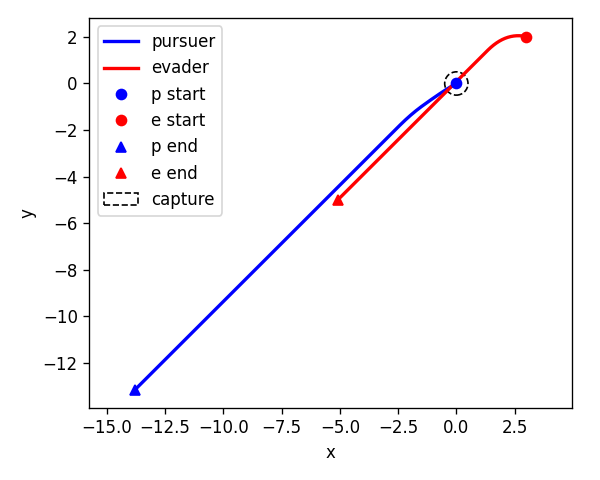
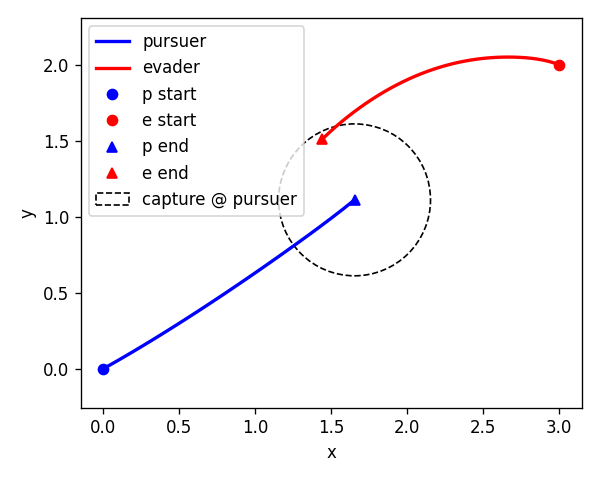
Fix pursuer control strategy and capture circle placement

diff --git a/pe_hji/plotting.py b/pe_hji/plotting.py
@@ -58,7 +58,9 @@ def plot_pursuer_evader(traj_p: np.ndarray, traj_e: np.ndarray, capture_radius: 
 	plt.plot(traj_e[0,0], traj_e[0,1], 'ro', label='e start')
 	plt.plot(traj_p[-1,0], traj_p[-1,1], 'b^', label='p end')
 	plt.plot(traj_e[-1,0], traj_e[-1,1], 'r^', label='e end')
-	circle = plt.Circle((0,0), capture_radius, color='k', fill=False, linestyle='--', linewidth=1.0, label='capture')
+	# Center capture circle at pursuer's final position
+	cx, cy = float(traj_p[-1,0]), float(traj_p[-1,1])
+	circle = plt.Circle((cx, cy), capture_radius, color='k', fill=False, linestyle='--', linewidth=1.0, label='capture @ pursuer')
 	plt.gca().add_patch(circle)
 	plt.axis('equal')
 	plt.xlabel('x')

diff --git a/pe_hji/controls.py b/pe_hji/controls.py
@@ -6,7 +6,7 @@ def optimal_controls_from_gradient(grad_vx: np.ndarray, grad_vy: np.ndarray, a_p
 	norm = np.sqrt(grad_vx * grad_vx + grad_vy * grad_vy) + 1e-12
 	dirx = grad_vx / norm
 	diry = grad_vy / norm
-	# Evader maximizes, pursuer minimizes; both align with gradient of V wrt v
+	# Evader maximizes value -> align with gradient; pursuer minimizes -> oppose gradient
 	a_e = a_e_max * np.stack([dirx, diry], axis=-1)
-	a_p = a_p_max * np.stack([dirx, diry], axis=-1)
+	a_p = -a_p_max * np.stack([dirx, diry], axis=-1)
 	return a_p, a_e
